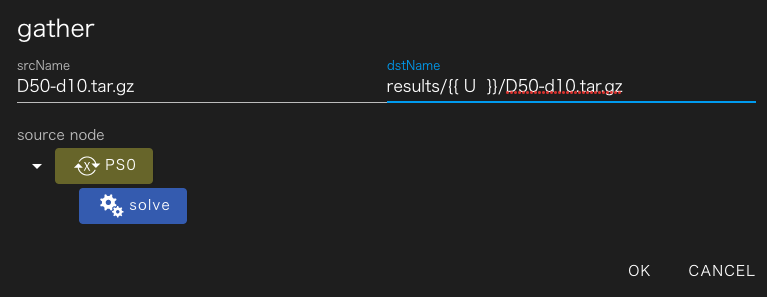
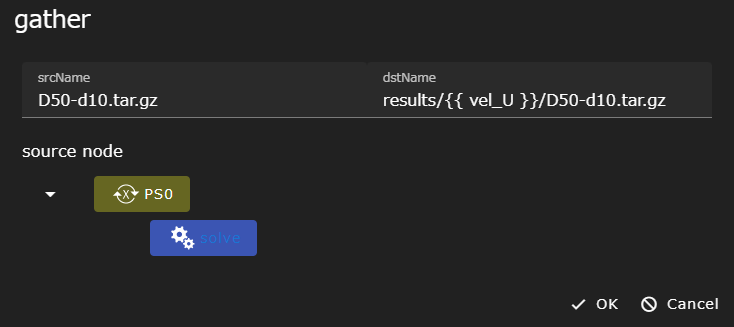
Reflect the content pointed out

diff --git a/documentMD/user_guide/_tutorial/3_application_tutorial/2_OpenFOAM_PS/index.md b/documentMD/user_guide/_tutorial/3_application_tutorial/2_OpenFOAM_PS/index.md
@@ -130,26 +130,29 @@ __solve__ コンポーネント内の __U__ を対象にするため、__solve__
 
 ![img](./img/PS_target_file.png "ターゲットファイルの指定")
 
-左ペインに __U__ ファイルが開かれるので boundaryField -> inlet -> value の行
+<!--左ペインに __U__ ファイルが開かれるので boundaryField -> inlet -> value の行
 にある、 __uniform (5 0 0);__ のうち __5__ の部分を
-ドラッグして選択してください。
+ドラッグして選択してください。-->
+左ペインに __U__ ファイルが開かれます。  
+boundaryField -> inlet -> value の行にある、 __uniform (5 0 0);__ のうち __5__ を __vel_U__ に変更します。
 
-右ペインの __parameters__ テキストボックスに __5__ と表示されます。
+![img](./img/change_value.png "値の変更")
+
+__uniform (vel_U 0 0);__ のうち __vel_U__ の部分をドラッグして選択してください。
+右ペインの __parameters__ テキストボックスに __vel_U__ と表示されます。
 
 ![img](./img/PS_param.png "パラメータ置き換え部分の選択")
 
-この状態で、 __Add New Parameter__ ボタンをクリックしてinletの流速に設定する値を
-入力します。
+この状態で、 __add new parameter__ ボタンをクリックしてinletの流速に設定する値を入力します。  
 ここでは、5 m/sから7m/sまで1m/s刻みでパラメータスタディを行なうので
 min=5, max=7, step=1 を設定してください。
 
 ![img](./img/PS_U_setting.png "パラメータ置き換え部分の選択")
 
-最後に __solve__ コンポーネントの実行結果を回収する設定を追加します。
-
-__Add New Gather Setting__ ボタンをクリックしてgather設定ダイアログを表示します。
+最後に __solve__ コンポーネントの実行結果を回収する設定を追加します。  
+__add new gather setting__ ボタンをクリックしてgather設定ダイアログを表示します。
 __solve__ を選択し、 __srcName__ に `D50-d10.tar.gz`、__dstName__ に
-<code>results/&lbrace;&lbrace; U &rbrace;&rbrace;/D50-d10.tar.gz</code> と入力してください。
+<code>results/&lbrace;&lbrace; vel_U &rbrace;&rbrace;/D50-d10.tar.gz</code> と入力してください。
 
 ![img](./img/PS_gather_setting.png "PS結果ファイル回収設定")
 

diff --git a/documentMD/user_guide/_tutorial/3_application_tutorial/2_OpenFOAM_PS/index.en.md b/documentMD/user_guide/_tutorial/3_application_tutorial/2_OpenFOAM_PS/index.en.md
@@ -130,26 +130,28 @@ To target __U__ in the __solve__ component, select __solve__, enter __U__ in the
 
 ![img](./img/PS_target_file.png "Specify Target File")
 
-The __U__ file is opened in the left pane, so the boundaryField -> inlet -> value line
+<!--The __U__ file is opened in the left pane, so the boundaryField -> inlet -> value line
 __uniform (5 0 0);__ the __5__ portion of 
-Drag to select.
+Drag to select.-->
+The __U__ file opens in the left pane.
+In the line boundaryField -> inlet -> value, change __5__ of __uniform (5 0 0);__ to __vel_U__.
 
-The __parameters__ text box in the right pane displays __5__.
+![img](./img/change_value.png "Change Value")
+
+Drag the __vel_U__ part of __uniform (vel_U 0 0);__ to select it. 
+The __parameters__ text box in the right pane displays __vel_U__.
 
 ![img](./img/PS_param.png "Selecting Parameter Replacements")
 
-In this state, click the __Add New Parameter__ button to set the inlet velocity
-Enter.
-In this case, the parameter study will be performed in 1m/s increments from 5m/s to 7m/s.
-Set min=5, max=7, step=1.
+Now click the __add new parameter__ button and enter the value you want to set for the inlet velocity.
+Set min=5, max=7, and step=1 to perform the parameter study in steps of 1 m/s from 5 m/s to 7 m/s.
 
 ![img](./img/PS_U_setting.png "Selecting Parameter Replacements")
 
-Finally, add a setting to collect the execution results of the __solve__ component.
-
-Click the __Add New Gather Setting__ button to display the gather settings dialog.
+Finally, add a setting to collect the execution results of the __solve__ component.  
+Click the __add new gather setting__ button to display the gather settings dialog.
 Select __solve__, set __srcName__ to `D50-d10.tar.gz`, set __dstName__ to
-<code>results/&lbrace;&lbrace; U &rbrace;&rbrace;/D50-d10.tar.gz</code>.
+<code>results/&lbrace;&lbrace; vel_U &rbrace;&rbrace;/D50-d10.tar.gz</code>.
 
 ![img](./img/PS_gather_setting.png "PS Results File Collection Settings")
 
